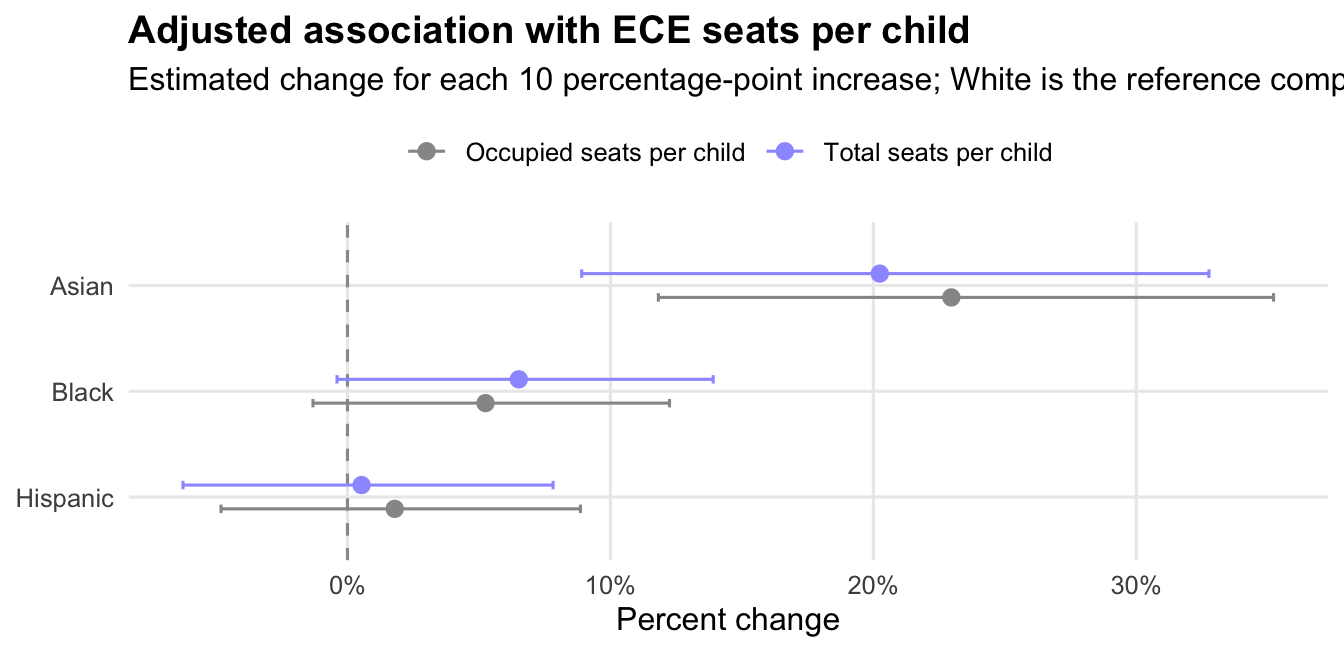
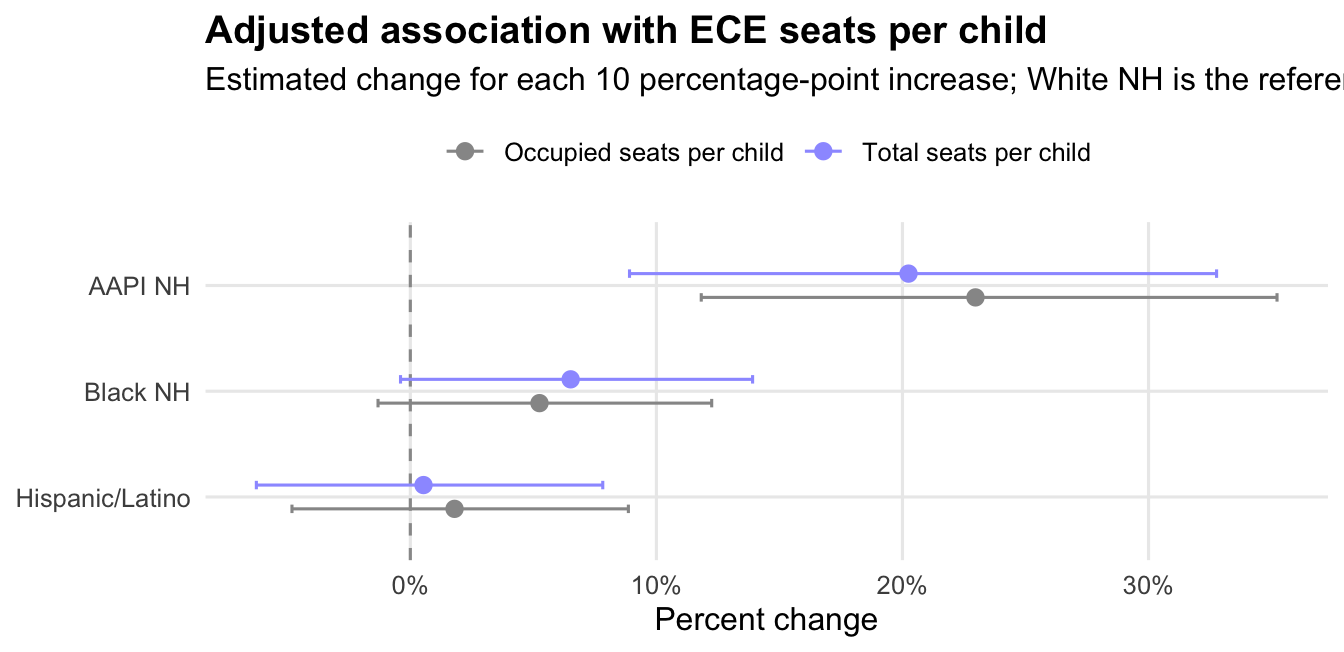
fix methods

diff --git a/2026/ECE/_site/ece_one_pager.html b/2026/ECE/_site/ece_one_pager.html
@@ -146,8 +146,8 @@ document.addEventListener("DOMContentLoaded", function () {
       <!-- user-provided yaml closeread style options -->
       <style>
         :root {
-          --cr-narrative-background-color-overlay: black;
---cr-narrative-text-color-overlay: #e2e2e2;
+          --cr-narrative-text-color-overlay: #e2e2e2;
+--cr-narrative-background-color-overlay: black;
         }
       </style>
     
@@ -204,19 +204,19 @@ KEY FINDINGS
 <div class="key-finding">
 <span class="finding-arrow">-&gt;</span>
 <p>
-ECE access varies sharply across PUMAs: occupied seats range from 0.23 to 2.10 per preschool-age child.
+ECE access varies sharply across PUMAs: occupied seats range from 0.23 to 2.10 per child ages 3-4.
 </p>
 </div>
 <div class="key-finding">
 <span class="finding-arrow">-&gt;</span>
 <p>
-A 10 percentage-point increase in Asian population share is associated with 23.0% more occupied seats per preschool-age child after accounting for median household income.
+A 10 percentage-point increase in AAPI NH population share is associated with 23.0% more occupied seats per child ages 3-4 after accounting for median household income.
 </p>
 </div>
 <div class="key-finding">
 <span class="finding-arrow">-&gt;</span>
 <p>
-The adjusted models do not show a clear positive association for Hispanic population share; Black estimates are positive but less precise.
+The adjusted models do not show a clear positive association for Hispanic/Latino population share; Black NH estimates are positive but less precise.
 </p>
 </div>
 </div>
@@ -226,24 +226,24 @@ The adjusted models do not show a clear positive association for Hispanic popula
 In this report
 </p>
 <nav>
-<a href="#overview">Overview</a> <a href="#what-we-found">What We Found</a> <a href="#observed-disparities">Observed Disparities</a> <a href="#adjusted-models">Adjusted Models</a> <a href="#data-snapshot">Data Snapshot</a> <a href="#policy-implications">Policy Implications</a> <a href="#limitations">Limitations</a>
+<a href="#overview">Overview</a> <a href="#what-we-found">What We Found</a> <a href="#observed-disparities">Observed Disparities</a> <a href="#adjusted-models">Adjusted Models</a> <a href="#methods">Methods</a> <a href="#data-snapshot">Data Snapshot</a> <a href="#policy-implications">Policy Implications</a> <a href="#limitations">Limitations</a>
 </nav>
 </div>
 <div class="article-column">
 <section id="overview" class="level2">
 <h2 class="anchored" data-anchor-id="overview">Overview</h2>
 <p>Access to early childhood education (ECE) can depend on where a family lives. A shortage of seats in a neighborhood can make it harder for families to find care nearby, even when seats are available elsewhere in the city.</p>
-<p>This one-pager examines whether ECE access varies by neighborhood racial and ethnic composition and household income. The outcomes are measured at the Public Use Microdata Area (PUMA) level as <strong>licensed ECE seats per preschool-age child ages 3-4</strong> and <strong>occupied ECE seats per preschool-age child</strong>.</p>
-<p>The racial and ethnic categories match the housing quality analysis: <strong>White</strong>, <strong>Black</strong>, <strong>Hispanic</strong>, <strong>Asian</strong>, and <strong>Other / 2+</strong>. The ACS data build keeps <code>AIAN_NHPI</code> and <code>Other_2plus</code> as separate analytic groups and combines them as <strong>Other / 2+</strong> for public-facing descriptive tables and maps.</p>
+<p>This one-pager examines whether ECE access varies by neighborhood racial and ethnic composition and household income. The outcomes are measured at the Public Use Microdata Area (PUMA) level as <strong>licensed ECE seats per child ages 3-4</strong> and <strong>occupied ECE seats per child ages 3-4</strong>. The child denominator is estimated from 2023 New York City Department of Health and Mental Hygiene (DOHMH) vital statistics birth data.</p>
+<p>Race and ethnicity are mutually exclusive categories based on the U.S. Census Bureau’s American Community Survey Public Use Microdata Sample (ACS PUMS): <strong>White NH</strong>, <strong>Black NH</strong>, <strong>Hispanic/Latino</strong>, <strong>AAPI NH</strong>, and <strong>AIAN/NHPI/Other/2+ NH</strong>. The combined AIAN/NHPI/Other/2+ NH group is used in public-facing PUMA composition tables and maps because the separate groups are small at this geography.</p>
 </section>
 <section id="what-we-found" class="level2">
 <h2 class="anchored" data-anchor-id="what-we-found">What We Found</h2>
-<p>Neighborhoods with larger Asian population shares have the strongest positive adjusted association with ECE access. In the occupied-seat model, a 10 percentage-point increase in Asian population share is associated with <strong>23.0% more occupied seats per preschool-age child</strong> after accounting for median household income.</p>
-<p>Black population share is also positively associated with seats per child, but the adjusted estimates are smaller and less precise. Hispanic population share is not meaningfully associated with higher seat access after adjustment in these models.</p>
+<p>Neighborhoods with larger AAPI NH population shares have the strongest positive adjusted association with ECE access. In the occupied-seat model, a 10 percentage-point increase in AAPI NH population share is associated with <strong>23.0% more occupied seats per child ages 3-4</strong> after accounting for median household income.</p>
+<p>Black NH population share is also positively associated with seats per child, but the adjusted estimates are smaller and less precise. Hispanic/Latino population share is not meaningfully associated with higher seat access after adjustment in these models.</p>
 </section>
 <section id="observed-disparities" class="level2">
 <h2 class="anchored" data-anchor-id="observed-disparities">What disparities do we observe?</h2>
-<p>Descriptively, ECE access varies sharply across PUMAs. The citywide mean is 0.58 occupied seats per preschool-age child, while the PUMA-level range runs from 0.23 to 2.10.</p>
+<p>Descriptively, ECE access varies sharply across PUMAs. The citywide mean is 0.58 occupied seats per child ages 3-4, while the PUMA-level range runs from 0.23 to 2.10.</p>
 <div class="cell">
 <div class="cell-output-display">
 <div>
@@ -267,40 +267,40 @@ In this report
 <div class="cell-output-display">
 <table class="caption-top table table-sm table-striped small">
 <colgroup>
-<col style="width: 18%">
-<col style="width: 7%">
-<col style="width: 35%">
-<col style="width: 38%">
+<col style="width: 16%">
+<col style="width: 6%">
+<col style="width: 37%">
+<col style="width: 40%">
 </colgroup>
 <thead>
 <tr class="header">
 <th style="text-align: left;">Largest group</th>
 <th style="text-align: right;">PUMAs</th>
-<th style="text-align: left;">Mean total seats per child</th>
-<th style="text-align: left;">Mean occupied seats per child</th>
+<th style="text-align: left;">Mean total seats per child ages 3-4</th>
+<th style="text-align: left;">Mean occupied seats per child ages 3-4</th>
 </tr>
 </thead>
 <tbody>
 <tr class="odd">
-<td style="text-align: left;">White</td>
+<td style="text-align: left;">White NH</td>
 <td style="text-align: right;">21</td>
 <td style="text-align: left;">0.67</td>
 <td style="text-align: left;">0.51</td>
 </tr>
 <tr class="even">
-<td style="text-align: left;">Black</td>
+<td style="text-align: left;">Black NH</td>
 <td style="text-align: right;">11</td>
 <td style="text-align: left;">0.81</td>
 <td style="text-align: left;">0.56</td>
 </tr>
 <tr class="odd">
-<td style="text-align: left;">Hispanic</td>
+<td style="text-align: left;">Hispanic/Latino</td>
 <td style="text-align: right;">18</td>
 <td style="text-align: left;">0.75</td>
 <td style="text-align: left;">0.57</td>
 </tr>
 <tr class="even">
-<td style="text-align: left;">Asian</td>
+<td style="text-align: left;">AAPI NH</td>
 <td style="text-align: right;">5</td>
 <td style="text-align: left;">1.20</td>
 <td style="text-align: left;">0.99</td>
@@ -312,7 +312,7 @@ In this report
 </section>
 <section id="adjusted-models" class="level2">
 <h2 class="anchored" data-anchor-id="adjusted-models">Do those disparities persist after accounting for relevant factors?</h2>
-<p>The adjusted models estimate log seats per child as a function of race/ethnicity composition and median household income. Coefficients are converted to percent changes, so each race/ethnicity estimate represents the modeled change associated with a 10 percentage-point increase in the population share. White is the omitted reference composition.</p>
+<p>The adjusted models estimate log seats per child ages 3-4 as a function of race/ethnicity composition and median household income. Coefficients are converted to percent changes, so each race/ethnicity estimate represents the modeled change associated with a 10 percentage-point increase in the population share. White NH is the omitted reference composition.</p>
 <div class="cell">
 <div class="cell-output-display">
 <div>
@@ -344,42 +344,42 @@ In this report
 <tbody>
 <tr class="odd">
 <td style="text-align: left;">Total seats per child</td>
-<td style="text-align: left;">Hispanic</td>
+<td style="text-align: left;">Hispanic/Latino</td>
 <td style="text-align: left;">0.5</td>
 <td style="text-align: left;">-6.3% to 7.8%</td>
 <td style="text-align: left;">0.879</td>
 </tr>
 <tr class="even">
 <td style="text-align: left;">Total seats per child</td>
-<td style="text-align: left;">Black</td>
+<td style="text-align: left;">Black NH</td>
 <td style="text-align: left;">6.5</td>
 <td style="text-align: left;">-0.4% to 13.9%</td>
 <td style="text-align: left;">0.065</td>
 </tr>
 <tr class="odd">
 <td style="text-align: left;">Total seats per child</td>
-<td style="text-align: left;">Asian</td>
+<td style="text-align: left;">AAPI NH</td>
 <td style="text-align: left;">20.2</td>
 <td style="text-align: left;">8.9% to 32.8%</td>
 <td style="text-align: left;">&lt;0.001</td>
 </tr>
 <tr class="even">
 <td style="text-align: left;">Occupied seats per child</td>
-<td style="text-align: left;">Hispanic</td>
+<td style="text-align: left;">Hispanic/Latino</td>
 <td style="text-align: left;">1.8</td>
 <td style="text-align: left;">-4.8% to 8.9%</td>
 <td style="text-align: left;">0.596</td>
 </tr>
 <tr class="odd">
 <td style="text-align: left;">Occupied seats per child</td>
-<td style="text-align: left;">Black</td>
+<td style="text-align: left;">Black NH</td>
 <td style="text-align: left;">5.2</td>
 <td style="text-align: left;">-1.3% to 12.2%</td>
 <td style="text-align: left;">0.117</td>
 </tr>
 <tr class="even">
 <td style="text-align: left;">Occupied seats per child</td>
-<td style="text-align: left;">Asian</td>
+<td style="text-align: left;">AAPI NH</td>
 <td style="text-align: left;">23.0</td>
 <td style="text-align: left;">11.8% to 35.2%</td>
 <td style="text-align: left;">&lt;0.001</td>
@@ -389,6 +389,13 @@ In this report
 </div>
 </div>
 <p>The adjusted results suggest that the descriptive differences are not explained entirely by median household income. However, the model is ecological: it estimates associations across neighborhoods, not individual child participation or household-level access.</p>
+</section>
+<section id="methods" class="level2">
+<h2 class="anchored" data-anchor-id="methods">Methods</h2>
+<p>This analysis combines publicly available information on ECE seats, child population, neighborhood demographics, household income, and PUMA boundaries. ECE capacity and vacancy measures come from New York City Public Schools/Department of Education reporting on early childhood education seats. The number of children ages 3-4 is estimated from 2023 DOHMH vital statistics birth data, using two birth cohorts as a proxy for the preschool-age population. Neighborhood race/ethnicity and household income measures come from the 2020-2024 ACS 5-year PUMS, and PUMA boundaries come from NYC Department of City Planning.</p>
+<p>All measures are summarized at the PUMA level. PUMAs are large statistical areas used for Census microdata; in New York City, the 55 PUMAs approximate community districts or combinations of community districts. The analysis does not use individual child records.</p>
+<p>Race and ethnicity are reported as mutually exclusive groups: White NH, Black NH, Hispanic/Latino, AAPI NH, and AIAN/NHPI/Other/2+ NH. AAPI NH is based on residents who identify as non-Hispanic Asian alone in the ACS. AIAN/NHPI/Other/2+ NH combines smaller non-Hispanic race groups for public reporting at this geography.</p>
+<p>Total access is defined as licensed ECE seats divided by the estimated number of children ages 3-4. Occupied access is defined as licensed seats minus vacant seats, divided by the estimated number of children ages 3-4. The adjusted results compare PUMAs with different racial and ethnic composition after accounting for median household income. These models describe neighborhood-level associations; they do not measure whether individual families were offered, accepted, or used a specific seat.</p>
 </section>
 <section id="data-snapshot" class="level2">
 <h2 class="anchored" data-anchor-id="data-snapshot">Data Snapshot</h2>
@@ -407,7 +414,7 @@ In this report
 <td style="text-align: left;">55</td>
 </tr>
 <tr class="even">
-<td style="text-align: left;">Preschool-age children</td>
+<td style="text-align: left;">Children ages 3-4 (2023 DOHMH vital statistics estimate)</td>
 <td style="text-align: left;">173,474</td>
 </tr>
 <tr class="odd">
@@ -434,11 +441,11 @@ In this report
 </table>
 </div>
 </div>
-<p><strong>Data sources:</strong> DOE ECE seat and vacancy data aggregated to PUMA, preschool-age child counts, and 2024 PUMA demographic and income measures in <code>data/lm_model_data.csv</code>; PUMA geography in <code>data/puma_nyc.geojson</code>.</p>
+<p><strong>Public data sources:</strong> <a href="https://infohub.nyced.org/reports/government-reports/student-applications-admissions-and-offers">New York City Public Schools/Department of Education early childhood education seat and enrollment reporting</a>; <a href="https://www.nyc.gov/site/doh/data/data-sets/public-use-birth-datasets.page">NYC DOHMH Public Use Birth Datasets, 2023</a>; <a href="https://www.census.gov/programs-surveys/acs/microdata/documentation/2024.html">U.S. Census Bureau 2020-2024 ACS 5-year PUMS</a>; and <a href="https://data.cityofnewyork.us/City-Government/2020-Public-Use-Microdata-Areas-PUMAs-/pikk-p9nv">NYC Department of City Planning 2020 Public Use Microdata Areas</a>.</p>
 </section>
 <section id="policy-implications" class="level2">
 <h2 class="anchored" data-anchor-id="policy-implications">Policy Implications</h2>
-<p>Policy responses should focus on both <strong>capacity</strong> and <strong>use</strong>. Neighborhoods with low occupied seats per preschool-age child may need additional seats, outreach to families, language access, transportation support, or schedule models that better match caregiver needs. Areas where seats exist but occupancy is lower may require different interventions than areas with low total capacity.</p>
+<p>Policy responses should focus on both <strong>capacity</strong> and <strong>use</strong>. Neighborhoods with low occupied seats per child ages 3-4 may need additional seats, outreach to families, language access, transportation support, or schedule models that better match caregiver needs. Areas where seats exist but occupancy is lower may require different interventions than areas with low total capacity.</p>
 <p>Equity monitoring should track access by geography and racial/ethnic composition together, because citywide averages can obscure neighborhood-level mismatches between child population, available seats, and actual enrollment.</p>
 </section>
 <section id="limitations" class="level2">
